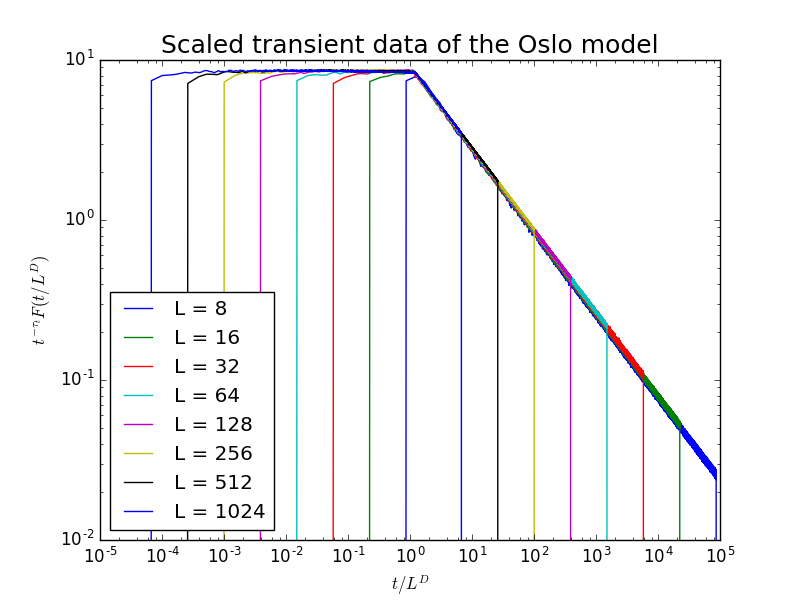
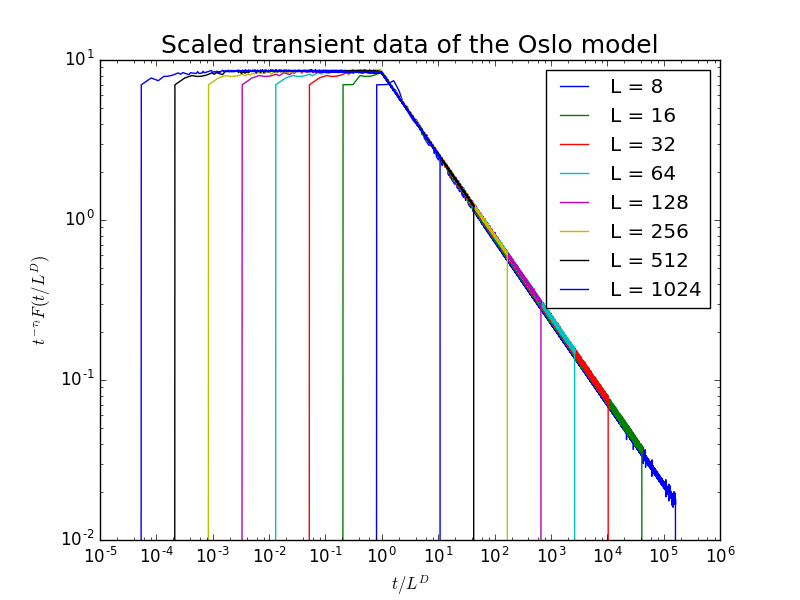
Updated git repository.

Changed region(s): [[0.125, 0.09, 0.9062, 0.96], [0.7812, 0.18, 0.8438, 0.3], [0.8125, 0.9, 0.8438, 0.96]]

diff --git a/Python/analysis.py b/Python/analysis.py
@@ -12,7 +12,8 @@ class Height:
         f.sort()
         self.filename = f[-1]
         print 'Loading data...'
-        self.data = np.loadtxt("./data/"+self.filename, dtype=int)
+        self.data = np.array([[int(i) for i in line.strip().split(' ') if i] for line in open("./data/" + self.filename)])
+        #self.data = np.loadtxt("./data/"+self.filename, dtype=int)
         self.tc = np.loadtxt("temp",dtype=int)
         self.averaged = False
         self.collapsed = False
@@ -37,7 +38,7 @@ class Height:
             y = self.data_average
         elif (data == 'collapse'):
             if (self.collapsed == False):
-                self.datacollapse(-0.51,1.95)
+                self.datacollapse(-0.51,1.982)
             y = self.data_collapsed
             print 'Plotting...'
             for i in range(len(y)):
@@ -95,35 +96,28 @@ class Height:
         print 'Calculating mean...'
         mean = []
         std = []
-        if (self.collapsed == False):
-            D = 1.95
-        else:
-            D = self.D
-        offset = 100
         for i in range(len(self.data)):
             mean.append(np.mean(self.data[i][self.tc[i]:]))
             std.append(np.std(self.data[i][self.tc[i]:]))
-            print np.std(self.data[i][self.tc[i]:])
+            print np.mean(self.data[i][self.tc[i]:]), np.std(self.data[i][self.tc[i]:])
         self.mean = np.array(mean)
         self.std = np.array(std)
     def bindata(self):
-        if (self.collapsed == False):
-            D = 1.95
-        else:
-            D = self.D
-        offset = 0
+        a = [1.72715,pow(np.e,-0.271)]
+        w1 = -0.919
         for i in range(len(self.data)):
             bins = np.arange(min(self.data[i][self.tc[i]:]),max(self.data[i][self.tc[i]:])+1,1)
             dat = np.histogram(self.data[i],bins)
             dat = dat[0]/float(len(self.data[i][self.tc[i]:]))
             for j in range(len(bins)-1):
                 dat[j] = dat[j]*self.std[i]
-            plt.plot((bins[1:]-self.mean[i])/self.std[i],dat,label='L = %d'%(pow(2,i+3)))
+            L = pow(2,i+3)
+            plt.plot((bins[1:]-a[0]*L*(1-a[1]*pow(L,w1)))/self.std[i],dat,label='L = %d'%(pow(2,i+3)))
         #plt.xscale('log')
         plt.yscale('log')
         plt.xlim(-8,8)
         plt.legend(loc=0)
-        plt.xlabel(r'$\left( x - \langle x \rangle _{n} \right)/\sigma _{n}$', fontsize=18)
+        plt.xlabel(r'$\left( x - a _{0} L \left( 1 - a_{1} L^{\omega_{1}} \right) \right)/\sigma _{n}$', fontsize=18)
         plt.ylabel(r'$\sigma _{n} P\left( x \right)$', fontsize=18)
         plt.show()
 
@@ -134,32 +128,36 @@ class Avalanche:
         f.sort()
         self.filename = f[-1]
         print 'Loading data...'
-        self.data = np.loadtxt("./data/"+self.filename)
+        self.data = np.array([[int(i) for i in line.strip().split(' ') if i] for line in open("./data/" + self.filename)])
         self.tc = np.loadtxt("temp",dtype=int)
         self.averaged = False
         self.collapsed = False
     def probability(self):
         offset = 0
-        for i in range(len(self.data)):
-            bins = np.arange(0,max(self.data[i][self.tc[i]:])+1,1)
-            dat = np.histogram(self.data[i],bins)
-            dat = dat[0]/float(len(self.data[i][self.tc[i]:]))
+        for i in range(1):#len(self.data)):
+            bins = np.arange(0,max(self.data[5][self.tc[5]:])+1,1)
+            dat = np.histogram(self.data[5][self.tc[5]:],bins)
+            dat = dat[0]/float(len(self.data[5][self.tc[5]:]))
             for j in range(len(bins)-1):
-               dat[j] = pow(bins[j],1.55)*dat[j]
-            plt.plot(bins[1:]/pow(pow(2,i+3),1.95),dat)
+               #dat[j] = pow(bins[j],1.55)*dat[j]
+               pass
+            plt.plot(bins[1:],dat)#/pow(pow(2,i+3),1.95),dat)
         #plt.ylim([1,1.01])
         plt.xscale('log')
         plt.yscale('log')
-        plt.show()
+        #plt.show()
     def logBin(self):
         print 'Binning data...'
         offset = 0
-        for i in range(len(self.data)):
-            bins, dat = log_bin(self.data[i],a=1.75)
+        for i in range(1):#len(self.data)):
+            bins, dat = log_bin(self.data[5],a=1.75)
             for j in range(len(bins)):
-              dat[j] = pow(bins[j],1.55)*dat[j]
-            plt.plot(np.array(bins)/pow(pow(2,i+3),2.2),dat)
+              #dat[j] = pow(bins[j],1.55)*dat[j]
+              pass
+            plt.plot(np.array(bins),dat, lw = 2.5)#/pow(pow(2,i+3),2.2),dat)
         print 'Plotting...'
+        plt.ylabel(r'$P_{n} \left( s \right)$',fontsize=18)
+        plt.xlabel(r'$s$',fontsize=18)
         plt.xscale('log')
         plt.yscale('log')
         plt.show()
@@ -183,13 +181,15 @@ class Avalanche:
         plt.show()
 
 def main():
-    h = Height()
+    #h = Height()
     #h.average(25)
     #h.datacollapse(-0.51,1.95)
-    h.averageheight()
-    h.bindata()
-    #h.plot('mean')
-    #a = Avalanche()
+    #h.averageheight()
+    #h.bindata()
+    #h.plot('collapse')
+    a = Avalanche()
+    a.probability()
+    a.logBin()
     #a.moment()
 
 if (__name__=='__main__'):
